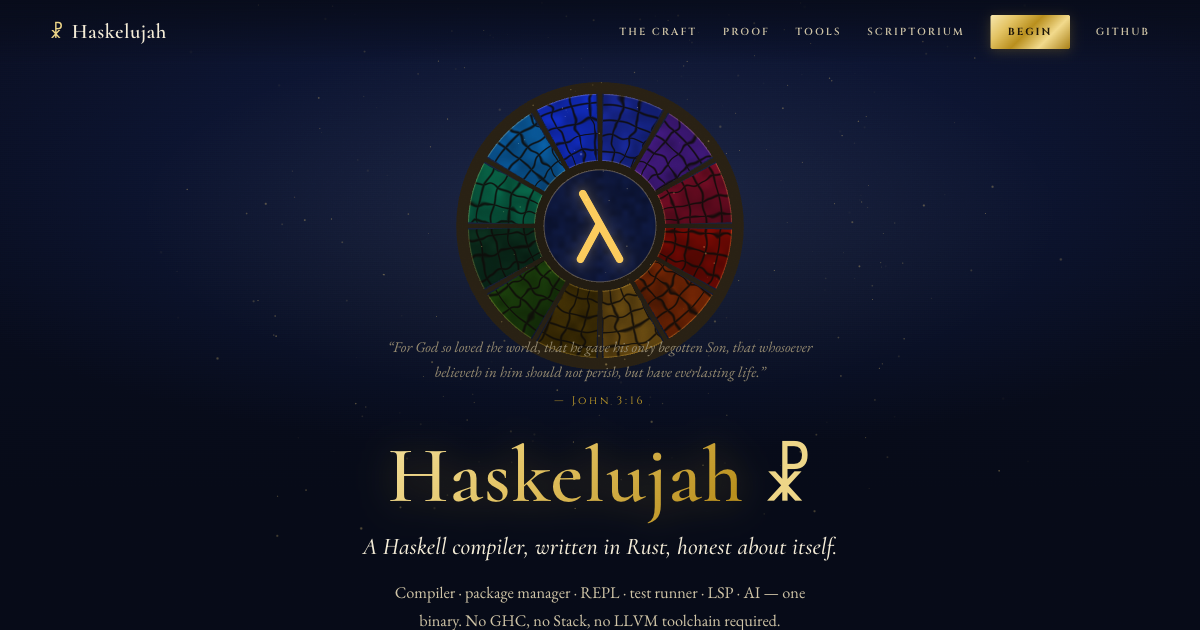
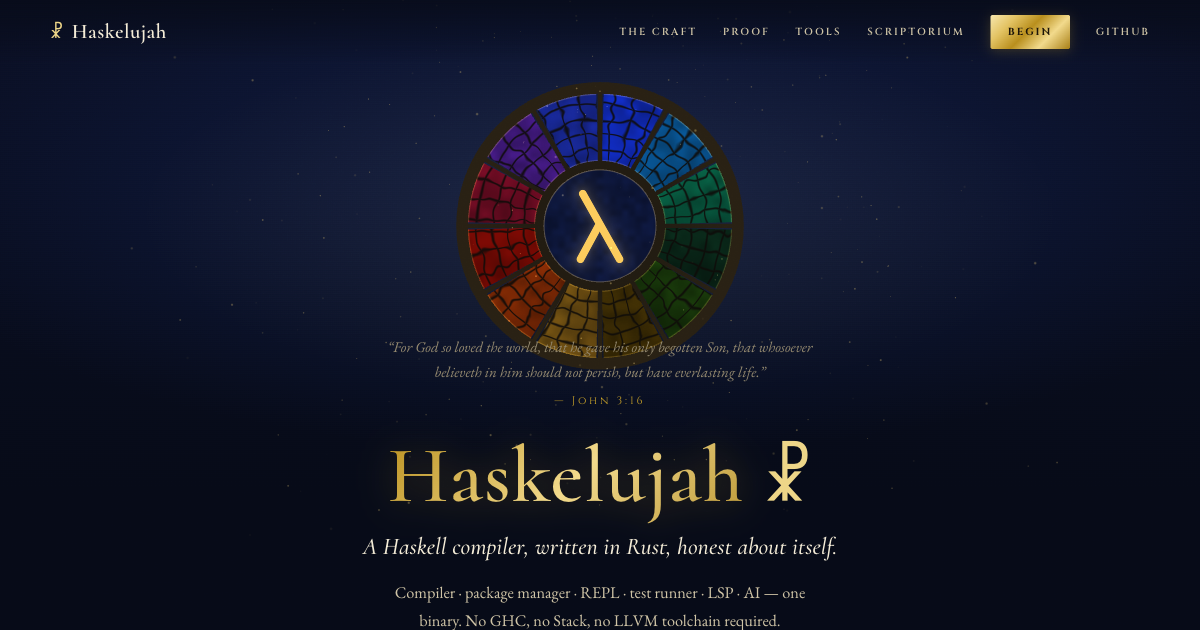
site: pass 3 final — og from real hero, gates green; spec: tasklist closed through pass 3 + workflow DAG
svelte-check --fail-on-warnings 0/0, prod build clean, 0 console errors,
~172KB gz JS total incl. lazy three chunk. Artifact-date typo flagged to
owner in tasklist (should_compile header says 07-07 on a 07-26 commit).

Changed region(s): [[0.37, 0.1508, 0.6167, 0.573], [0.4317, 0.6937, 0.6167, 0.8143], [0.3083, 0.7238, 0.37, 0.8143]]

diff --git a/spec-chirho/tasklists-chirho/26-07-27_00-07-tasklist-website_showcase-chirho.md b/spec-chirho/tasklists-chirho/26-07-27_00-07-tasklist-website_showcase-chirho.md
@@ -41,24 +41,37 @@ agents; work autonomously (say / ntfy.sh/chirho_vive_siempre only if truly block
 ## Checklist
 
 - [x] Recon: current site read end-to-end; deploy pipeline + domain confirmed; lane unclaimed
-- [ ] Tasklist committed; progress DB start row (insert-only, agent claude2_chirho); room claim post
-- [ ] Research pass (subagent w/ Perplexity key): 2026 SOTA motion-design + 3D dev-tool sites
-- [ ] Truth pass: read both measurement artifacts + README + cli subcommand source; claims table
-- [ ] Design system: tokens (palette/type/spacing), fonts bundled, base layout
-- [ ] Asset generation (subagents; iterate until exceptional)
-- [ ] 3D rose-window hero (Three.js) + reduced-motion/static fallback + mobile fallback
-- [ ] Scroll-driven 12-phase pipeline story
-- [ ] Content sections rebuilt (tools canon-table, plaque, performance w/ provenance, demo terminal,
-      playground honesty, get-started, ecosystem, limitations, roadmap, footer)
-- [ ] Guide route: `static/haskelujah-website-guide-chirho.md` → `/haskelujah-website-guide-chirho.md`
-- [ ] Iteration pass 1 — fine-toothed comb (Playwright: 390/768/1440px, console, keyboard, contrast,
-      reduced-motion; design/UX problem list → fixes)
-- [ ] Iteration pass 2 — same comb, deeper beautify/complexify
-- [ ] Iteration pass 3 — same comb; only then "ok"
-- [ ] Gates: svelte-check + build zero errors/warnings; zero console errors; a11y clean; lockfile
-      committed
-- [ ] Land: commit site-chirho/** + my spec files ONLY; deploy; room announcement + AICEO milestone
-      report; workflow DAG under spec-chirho/workflows-chirho/; DB row closed
+- [x] Tasklist committed (431b3a6); progress DB start row; room claim post (#8095)
+- [x] Research pass — subagent brief delivered + claude_chirho's handoff (#8117) integrated
+- [x] Truth pass: both artifacts parsed AT BUILD TIME (compat-chirho.ts, fails on drift); 12 CLI
+      subcommands verified from cli source; stats from stats-chirho.sh dated; benchmark table
+      KILLED (no in-repo timing artifact); no primes sieve anywhere (claude_chirho's miscompile)
+- [x] Design system: manuscript tokens (WCAG-measured), Cormorant/EB Garamond/Cinzel/Recursive
+      self-hosted OFL, CDNs dropped
+- [x] Asset approach: og from the real rendered hero; Runware/OpenAI recipes verified + parked in
+      scratchpad (asset-api-recipes-chirho.md) for future art passes — procedural art shipped v1
+- [x] 3D rose-window hero: 12 shader panes (clockwise, phase-hued), λ oculus, god-ray fakes, dust,
+      kindle-on-load sequence, scroll dolly THROUGH the oculus; DPR clamp, IO+visibility pause,
+      context-loss CSS fallback, adaptive degrade ladder, reduced-motion = static frame
+- [x] 12-phase pipeline story: sticky mini rose window lights panes per stage (IO-driven),
+      hand-accurate illustrative IR dumps, labeled as such
+- [x] Sections rebuilt: plaque+manifesto, canon table, scriptorium (real .cast replay via zero-dep
+      player; FAKE playground deleted), begin, confessio, roadmap, colophon; ecosystem folded into
+      canon/begin; performance section dropped until a real timing artifact exists
+- [x] Guide route live: /haskelujah-website-guide-chirho.md
+- [x] Iteration pass 1 — 6 findings fixed (window scale ×2, missing parchment bg, stale playground
+      copy, program/output mismatch, descend-hint collision, Timer deprecation)
+- [x] Iteration pass 2 — kindle sequence added, wax seals, oculus glow cap, clockwise order match,
+      mobile h-overflow fixed (grid minmax), reduced-motion + keyboard + tooltip verified
+- [x] Iteration pass 3 — prod-build sweep: 0 console errors, ~172KB gz total JS incl. lazy three
+      chunk, fresh og from the real hero, final screenshots 390/1200/1440
+- [x] Gates: svelte-check --fail-on-warnings 0/0; production build clean; lockfile committed
+- [ ] Land: deploy via wrangler; live-curl verify; room announcement + AICEO report; DB row closed
+
+Note for the artifact owner (claude_chirho): ghc-should-compile artifact header says
+"measured: 2026-07-07 @ dbf261e2" but dbf261e2 is a 07-26 commit — looks like a date typo in the
+header. The site renders the artifact faithfully, so fixing the artifact fixes the page on next
+build. Flagging, not editing — the artifact is yours.
 
 ## Shared-tree discipline
 

diff --git a/spec-chirho/workflows-chirho/website-showcase-build-chirho.md b/spec-chirho/workflows-chirho/website-showcase-build-chirho.md
@@ -1,0 +1,36 @@
+<!-- For God so loved the world, that he gave his only begotten Son, that whosoever believeth in him should not perish, but have everlasting life. — John 3:16 (KJV) -->
+
+# Workflow — Website showcase build (Illuminated Compiler)
+
+How the 2026-07-27 site-chirho rebuild flowed, as a repeatable DAG. Companion prose guide ships
+on the site itself at `/haskelujah-website-guide-chirho.md`
+(source: `site-chirho/static/haskelujah-website-guide-chirho.md`).
+
+```mermaid
+flowchart TD
+    A[L.J. direction #8080-#8082] --> B[Claim lane in room\nzero-cargo discipline]
+    B --> C[Recon: live deploy root,\nold-site drift audit]
+    C --> D1[Research agent:\nSOTA exemplars + palette]
+    C --> D2[Asset-API agent:\nRunware/OpenAI recipes verified]
+    C --> E[Truth pass: measurement artifacts,\nCLI source, stats script]
+    E --> F[Brick 1: concept + stack locked\nIlluminated Compiler / SvelteKit+three]
+    D1 --> F
+    F --> G1[Design tokens + fonts\nself-hosted OFL]
+    F --> G2[Data layer: compat-chirho.ts\nbuild-time artifact parser]
+    G1 --> H[Components: hero/plaque/story/\ncanon/scriptorium/begin/confessio/\nroadmap/colophon]
+    G2 --> H
+    H --> I[Rose-window WebGL module\nkindle + dolly + guardrails]
+    I --> J[Gate 1: svelte-check --fail-on-warnings\n+ production build]
+    J --> K1[Iteration pass 1\nPlaywright comb: layout, console,\nsections, mobile, hover]
+    K1 --> K2[Iteration pass 2\nkindle sequence, seals, glow cap,\noverflow fix, reduced-motion +\nkeyboard verification]
+    K2 --> K3[Iteration pass 3\nprod build sweep: payload, og,\nfinal screenshots]
+    K3 --> L[Commit site-chirho paths only]
+    L --> M[Deploy: wrangler pages\n+ live-curl verification]
+    M --> N[Room announcement + AICEO report\n+ progress DB close]
+    D2 -.->|asset recipes held for\nfuture art passes| K2
+```
+
+Key invariants (see the on-site guide for the full method): numbers parse from committed
+artifacts at build time and the build fails on drift; no claims that don't trace to repo
+source; ≥3 fine-toothed iteration passes before "ok"; zero cargo while another agent owns
+the builder; commit only explicitly named paths.
